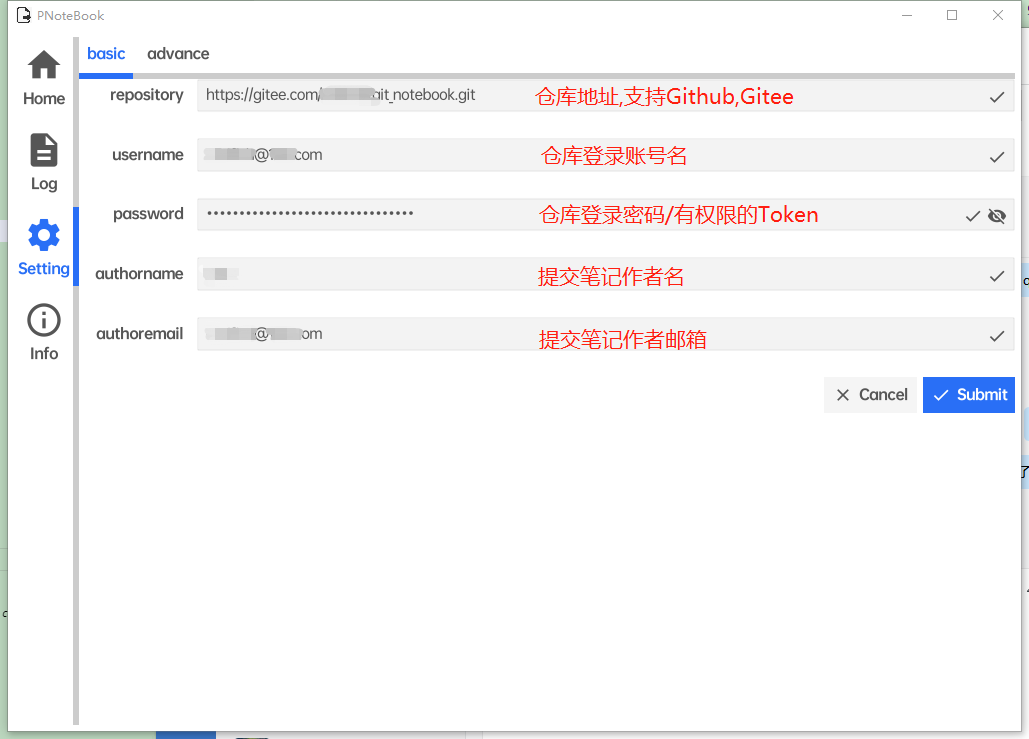
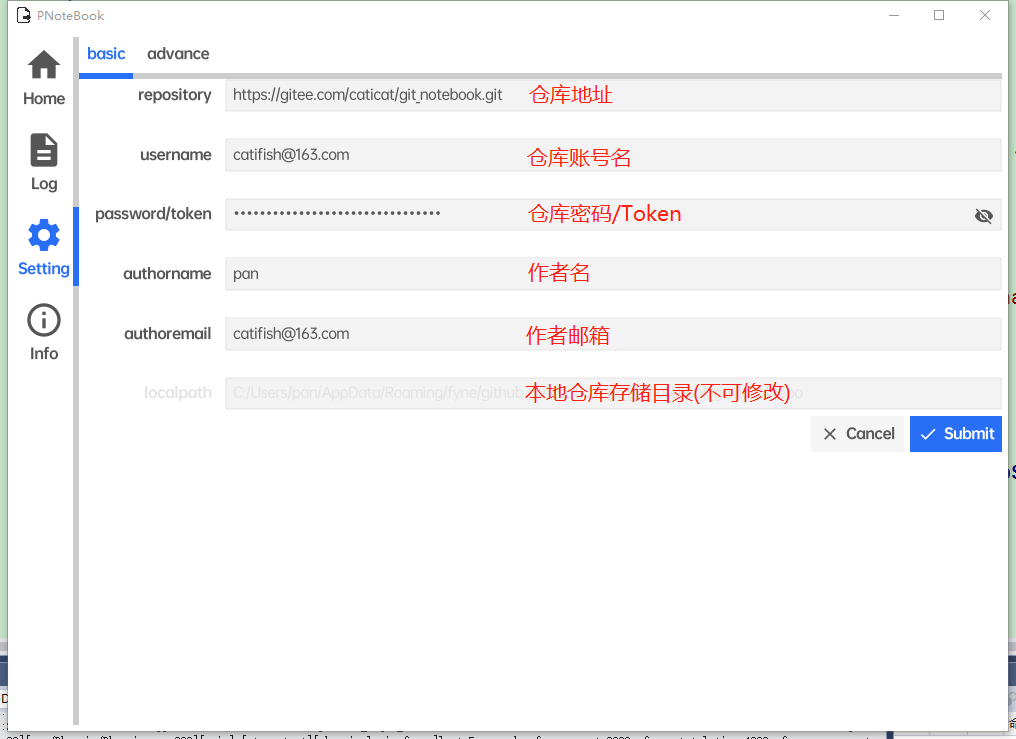
功能说明完善

diff --git a/README.md b/README.md
@@ -7,10 +7,14 @@
 - 支持网站
 	- [GitHub](https://github.com/)
 	- [Gitee](https://gitee.com/)
-- 设置说明
+- 界面说明
 
-![basic](./assets/setting_basic.png)
-![advance](./assets/setting_advance.png)
+![home](./assets/home.png)
+![log_app](./assets/log_app.png)
+![log_git](./assets/log_git.png)
+![setting_basic](./assets/setting_basic.png)
+![setting_advance](./assets/setting_advance.png)
+![info](./assets/info.png)
 
 ## 待制作
 
